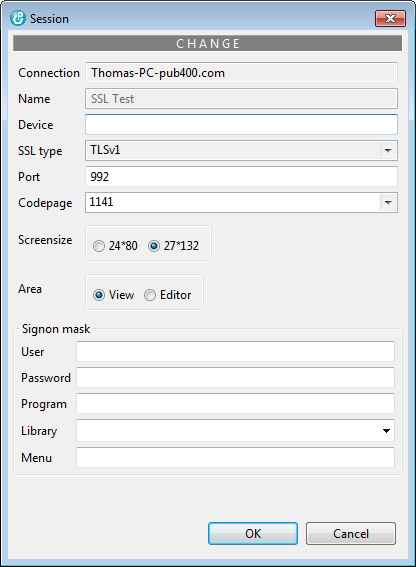
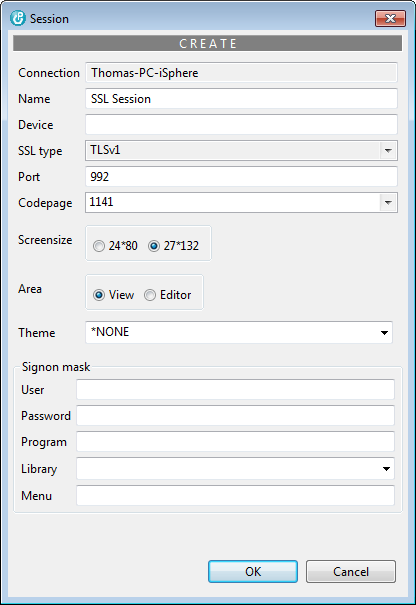
Updated 5250 help pages.

diff --git a/eclipse/iSphere Help 5250 Emulator/html/5250emulator/theme/theme.html b/eclipse/iSphere Help 5250 Emulator/html/5250emulator/theme/theme.html
@@ -1,0 +1,48 @@
+<!DOCTYPE HTML PUBLIC "-//W3C//DTD HTML 4.0 Transitional//EN">
+
+<html>
+<head>
+<meta http-equiv="Content-Type" content="text/html; charset=iso-8859-1">
+<link rel="stylesheet" type="text/css" href="../../stylesheet.css">
+<title>Theme</title>
+</head>
+<body>
+	<h1>Creating a Session Theme</h1>
+	<p>
+	A session theme is used for overriding the default session colors with the colors of the theme. This way
+	you can use your default 5250 settings, such as the keyboard layout, for all sessions but give some sessions
+	a different color theme.
+	<p>
+	Right-click on an "iSphere 5020 Session" and select the "Change session" option.
+	<p>
+	<img src="assets/session_popup.png" align="middle">
+	<p>
+	Select a theme from the "Theme" combo box or enter a name for creating a new theme.
+	<p>
+	<img src="assets/select_theme.png" align="middle">
+	<p>
+	Confirm the following question with "Yes" when you want to create a new theme:
+	<p>
+	<img src="assets/question_create_theme.png" align="middle">
+	<p>
+	Please notice that the theme configuration file is not created at this point. Go ahead and open the session to create 
+	it. Then select option "Settings..." from the context menu and tweak the colors to make it look nicely. You may also
+	start with a predefined scheme from the "Scheme" combo box:
+	<p>
+	<table>
+	<tr><td><img src="assets/open_settings.png" align="middle"></td><td width="10px"></td><td><img src="assets/color_preferences.png" align="middle"></td></tr>
+	</table>
+	<p>
+	Click the "Apply" button for each color that you changed. Save the settings when you are done.
+	<p>
+	<table>
+		<tr>
+			<td class="info">The theme configuration files are stored in folder <i>%USERPROFILE%\.tn5250j</i> and
+			                 named <i>ThemeOverlay_*.props</i> where the asterisk equals the name of the theme.</td>
+		</tr>
+	</table>
+	<p>
+		<iframe src="../../copyright.html" width="100%" frameborder="0"
+			marginheight="0" marginwidth="0"></iframe>
+</body>
+</html>

diff --git a/eclipse/iSphere Help 5250 Emulator/html/5250emulator/session/session.html b/eclipse/iSphere Help 5250 Emulator/html/5250emulator/session/session.html
@@ -71,7 +71,7 @@
 		<tr>
 			<td valign="top" nowrap>Theme</td>
 			<td valign="top">-</td>
-			<td valign="top">Specifies the name of a theme. The theme overrides the default TN5250J color attributes. Use
+			<td valign="top">Specifies the name of a <a href="../theme/theme.html">theme</a>. The theme overrides the default TN5250J color attributes. Use
 			                 a theme to define different color themes for your 5250 sessions. A theme can be reused between
 			                 your sessions.</td>
 		</tr>
